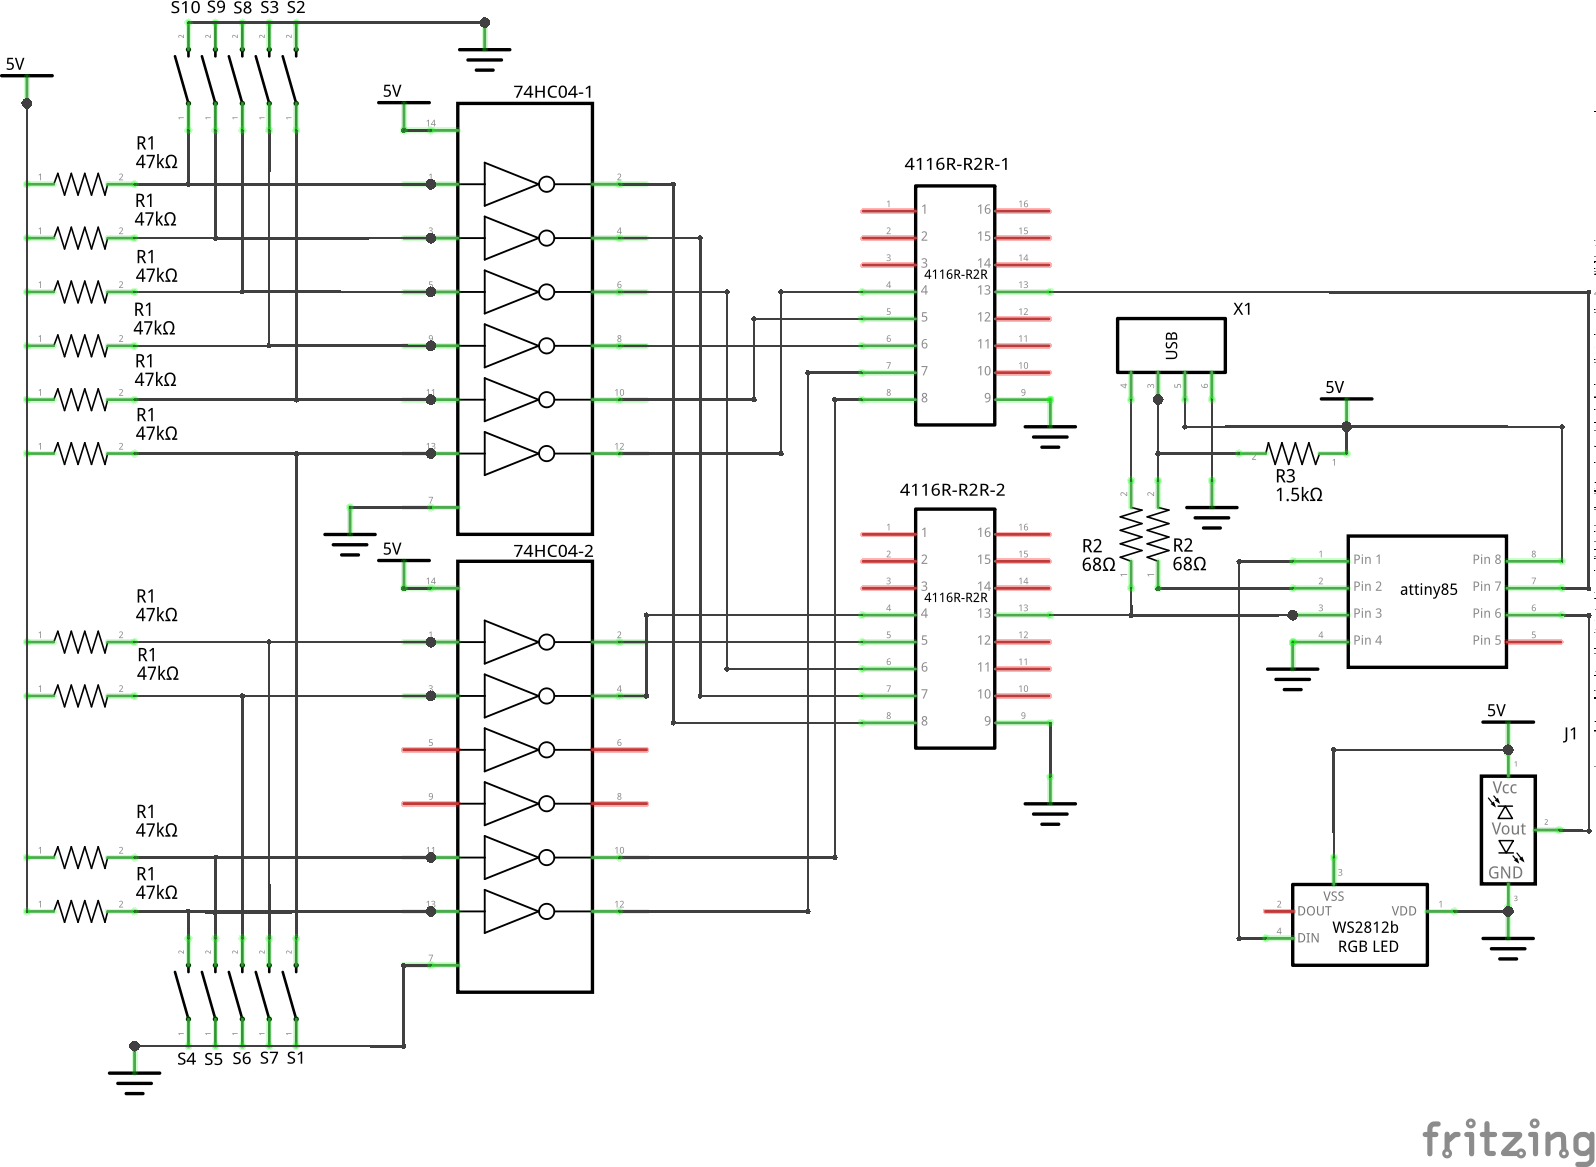
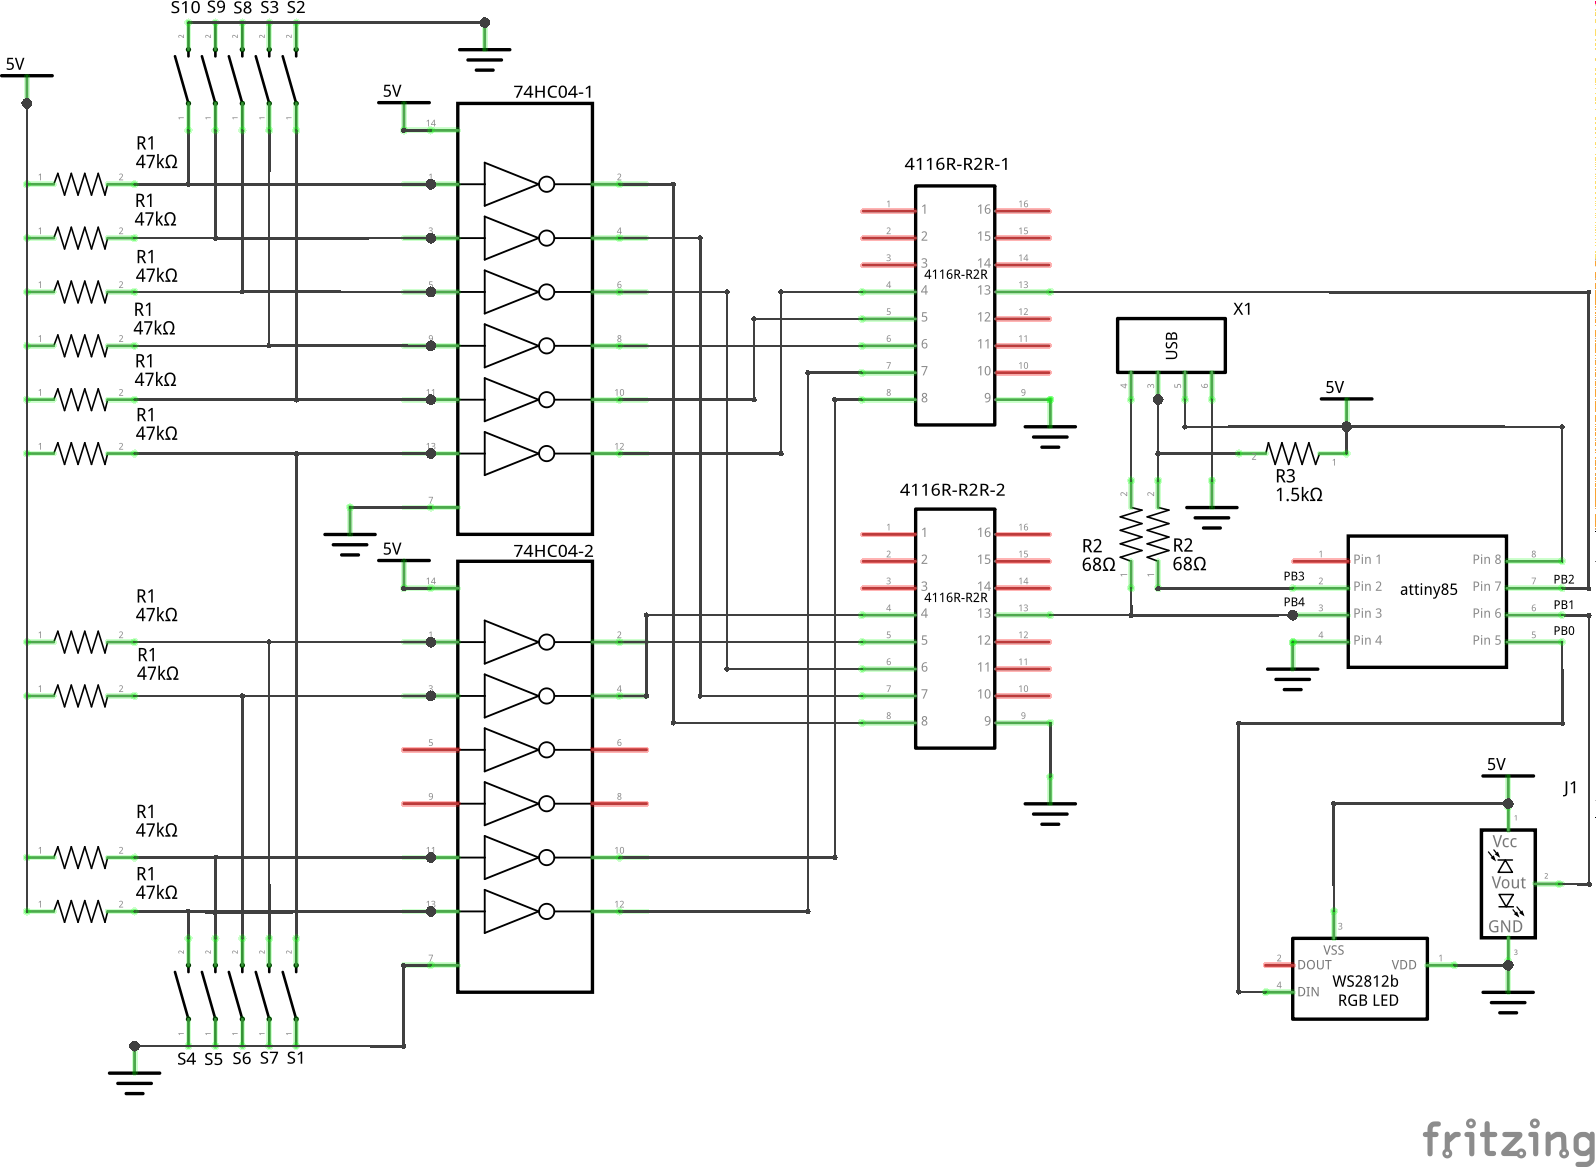
* fix error in schematic. * fix "I haven't pressed save button" in tacho function. * move constants and defines to config.h for better portability.

Changed region(s): [[0.7675, 0.617, 1.0, 0.8946], [0.7982, 0.4627, 0.8289, 0.5244], [0.9518, 0.5244, 0.9825, 0.5553]]

diff --git a/src/b-car/config.h b/src/b-car/config.h
@@ -1,0 +1,52 @@
+#define PIN 0
+#define NUM_LEDS 32
+
+#define BUTTONS1 A1
+#define BUTTONS2 A2
+
+#define TURNLIGHT 0xffc000
+#define LOWBEAM 0x3f3f3f
+#define HIGHBEAM 0x7f7f7f
+#define BACKLIGHT 0x3f0000
+
+#define DEBOUNCE 20
+
+#define KRR 0x7f
+#define KRG 0x00
+#define KRB 0x00
+#define KRPERIOD 500
+#define KRDTZ 200
+
+#define PR 0x00
+#define PG 0x00
+#define PB 0xff
+#define PPERIOD 1000
+#define PDTZ 200
+#define PLFLASH 0xff0000
+#define PLLOW 0x1f0000
+#define PRFLASH 0x0000ff
+#define PRLOW 0x00001f
+#define RBSTEP 40
+
+#define INTERRUPTPIN PCINT1 //this is PB1 per the schematic
+#define PCINT_VECTOR PCINT0_vect  //this step is not necessary
+#define DATADIRECTIONPIN DDB1 //Page 64 of data sheet
+#define PORTPIN PB1 //Page 64
+#define READPIN PINB1 //page 64
+//CF = 150 *Pi = 235.61944901923448
+#define CF 236
+#define INCR 4
+
+const byte turn_light_left[]={17,27};
+const byte low_beam_row[] ={1,2,16,15};
+const byte high_beam_row[] = {1,2,16,15};
+const byte front_row[] = {3,4,5,13,14};
+const byte tacho_row[] = {12,11,10,9,8,7,6};
+const byte turn_light_right[]={0,30};
+const byte down_left_row[] = {18,19,20,21};
+const byte down_right_row[] = {22,23,24,25};
+const byte back_light_row[] = {26,28,29,31};
+
+const byte rainbowrow_left[]  = {5,13,14,17,15,16,18,19,20,21,30,31,29, 9,10,11,12};
+const byte rainbowrow_right[] = {5, 4, 3, 0 , 2, 1,22,23,24,25,27,26,28, 9, 8, 7, 6};
+
